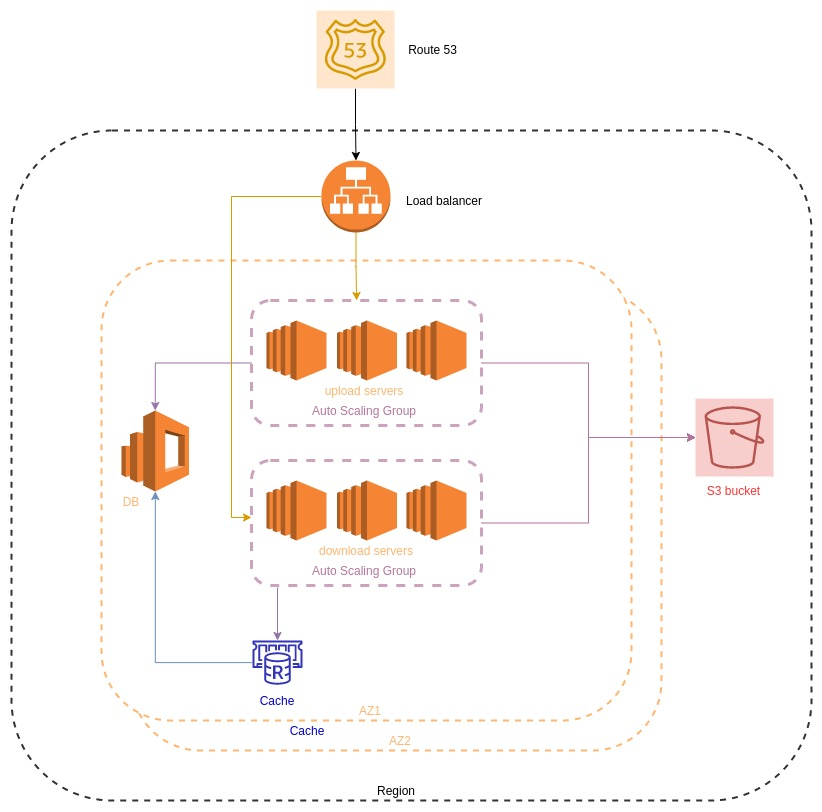
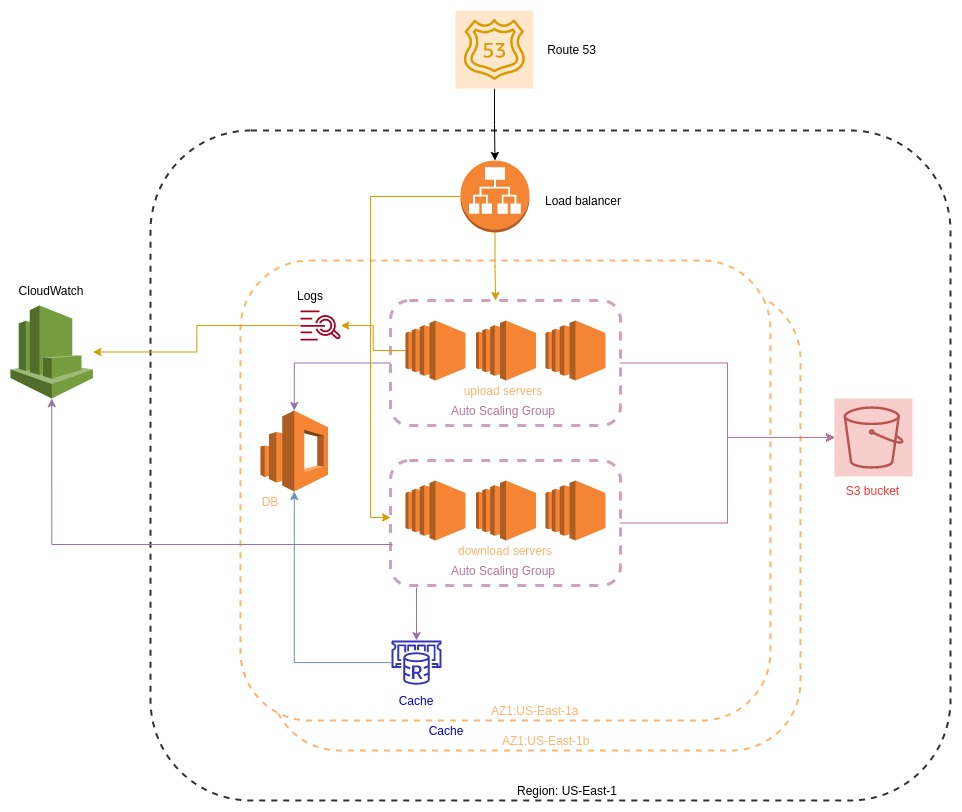
Docker+Cloudwatch+doc updates

diff --git a/util/func_util.py b/util/func_util.py
@@ -1,9 +1,18 @@
+import logging
+import time
+
 def log_api(function):
     def log_function(*args, **kwargs):
-        #Get the bearer token from the request posted and validate
-        #with Amazon Cognito
+        logging.info(f'*****User invoked the {function.__name__} function*****')
         print(f'*****User invoked the {function.__name__} function*****')
-        return function(*args, **kwargs)
+
+        start = time.time()
+        results = function(*args, **kwargs)
+        end = time.time()
+
+        logging.info(f'{function.__name__} took {end - start} seconds')
+        print(f'{function.__name__} took {end - start} seconds')
+        return results
     
     # Renaming the function name:
     log_function.__name__ = function.__name__

diff --git a/views/api.py b/views/api.py
@@ -5,7 +5,7 @@ from werkzeug.utils import secure_filename
 from util.func_util import log_api
 
 ALLOWED_EXTENSIONS = {'txt', 'pdf', 'png', 'jpg', 'jpeg', 'gif', 'MOV', 'zip', 'jar'}
-UPLOAD_FOLDER = '/tmp/uploader/uploads/'
+UPLOAD_FOLDER = './data'
 
 api = Blueprint('api', __name__)
 
